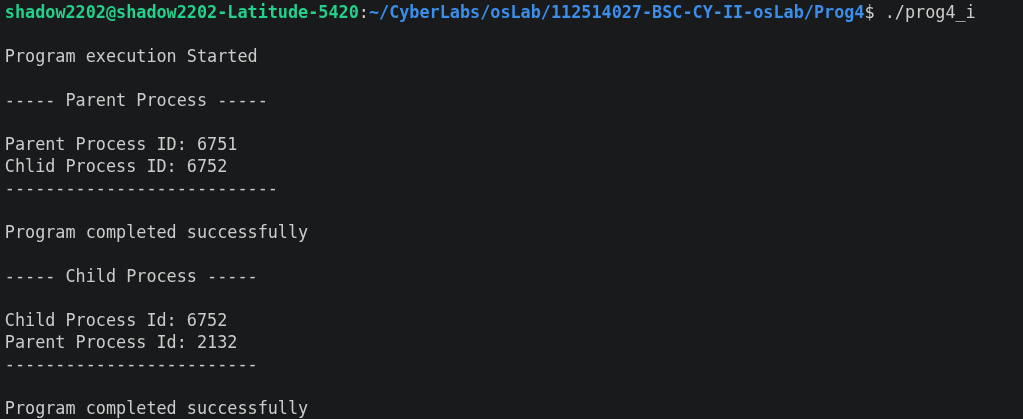
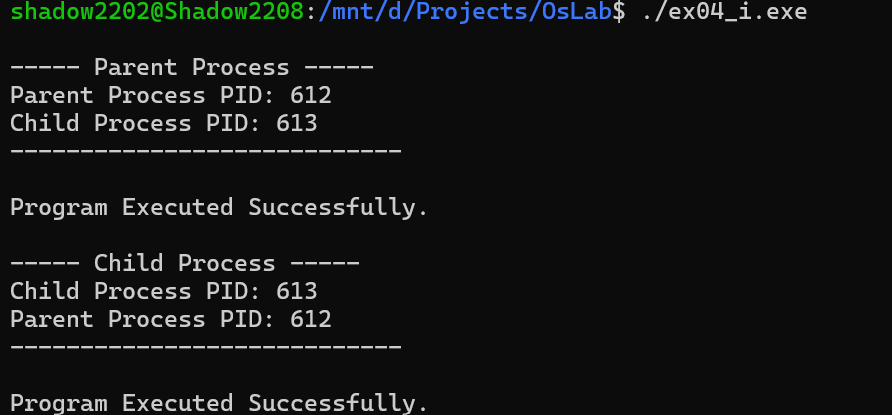
Program 4: Process Creation and Management using Linux System Call

diff --git a/ex04/README.md b/ex04/README.md
@@ -25,21 +25,21 @@ The functions used are:
 
 **Files**:
 
-- [prog4_i.c](https://github.com/sathyanarayanan-devs/112514027-BSC-CY-II-osLab/blob/112514027-BSC-OSLAB-CY-II/Prog4/prog4_i.c) – Process creation and process identification.
-- [prog4_ii.c](https://github.com/sathyanarayanan-devs/112514027-BSC-CY-II-osLab/blob/112514027-BSC-OSLAB-CY-II/Prog4/prog4_ii.c) – Process creation with parent-child synchronization.
+- [ex04_i.c](https://github.com/sathyanarayanan-devs/112514027-BSC-CY-II-osLab/blob/112514027-BSC-OSLAB-CY-II/ex04/ex04_i.c) – Process creation and process identification.
+- [ex04_ii.c](https://github.com/sathyanarayanan-devs/112514027-BSC-CY-II-osLab/blob/112514027-BSC-OSLAB-CY-II/Prog4/prog4_ii.c) – Process creation with parent-child synchronization.
 
 ## Compilation
 
 ### Program 4(i)
 
 ```bash
-gcc prog4_i.c -o prog4_i
+gcc ex04_i.c -o ex04_i
 ```
 
 ### Program 4(ii)
 
 ```bash
-gcc prog4_ii.c -o prog4_ii
+gcc ex04_ii.c -o ex04_ii
 ```
 
 ## Execution
@@ -47,24 +47,24 @@ gcc prog4_ii.c -o prog4_ii
 ### Program 4(i)
 
 ```bash
-./prog4_i
+./ex04_i
 ```
 
 ### Program 4(ii)
 
 ```bash
-./prog4_ii
+./ex04_ii
 ```
 
 ## Sample Output
 
 ### Program 4(i)
 
-![Sample Output for Prog4_i.c](image_1.png)
+![Sample Output for ex04_i.c](image_1.png)
 
 ### Program 4(ii)
 
-![Sample Output for Prog_ii.c](image_2.png)
+![Sample Output for ex04_ii.c](image_2.png)
 
 ## Process Functions Used
 
